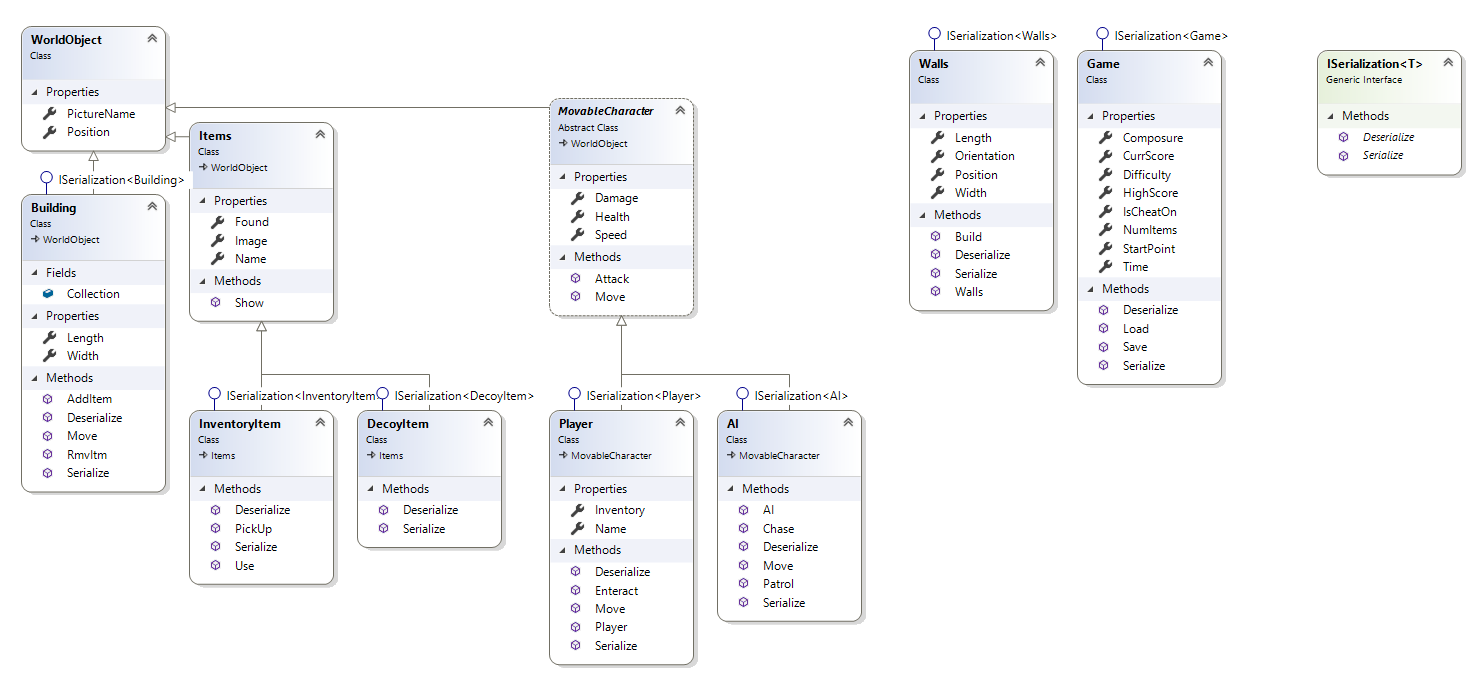
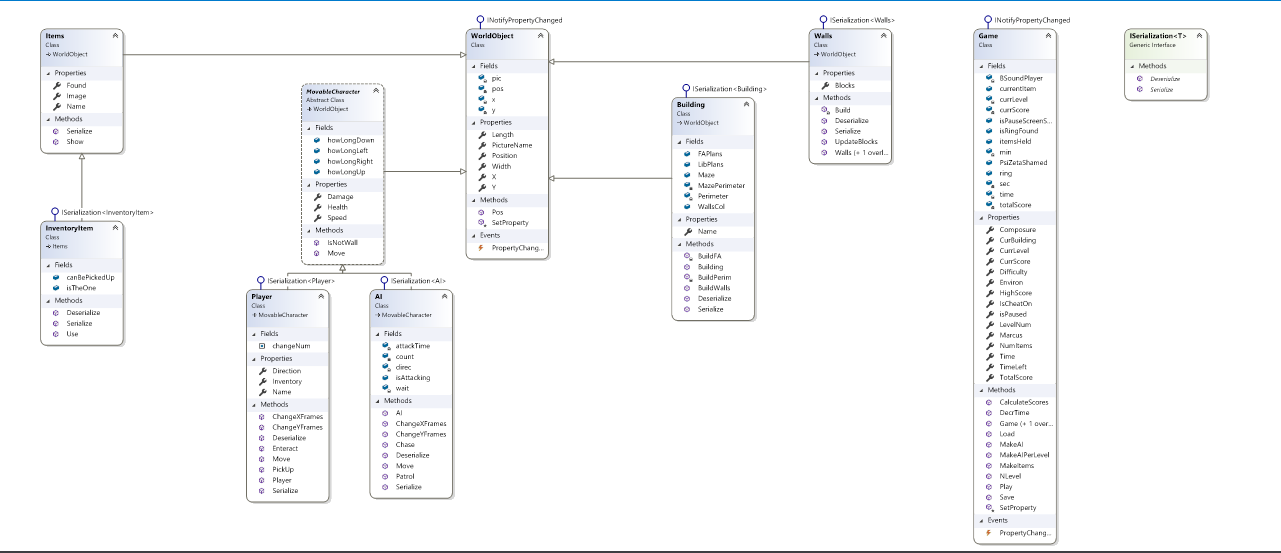
Updated UML

Changed region(s): [[0.0, 0.0307, 1.0, 1.0], [0.8743, 0.0307, 0.9992, 0.2767]]

diff --git a/Environment/Walls.cs b/Environment/Walls.cs
@@ -54,6 +54,7 @@ namespace Binder.Environment
             }
         }
 
+        //Updates the Blocks with the changes in x and y
         public void UpdateBlocks(int x, int y)
         {
             foreach(Block b in Blocks)
